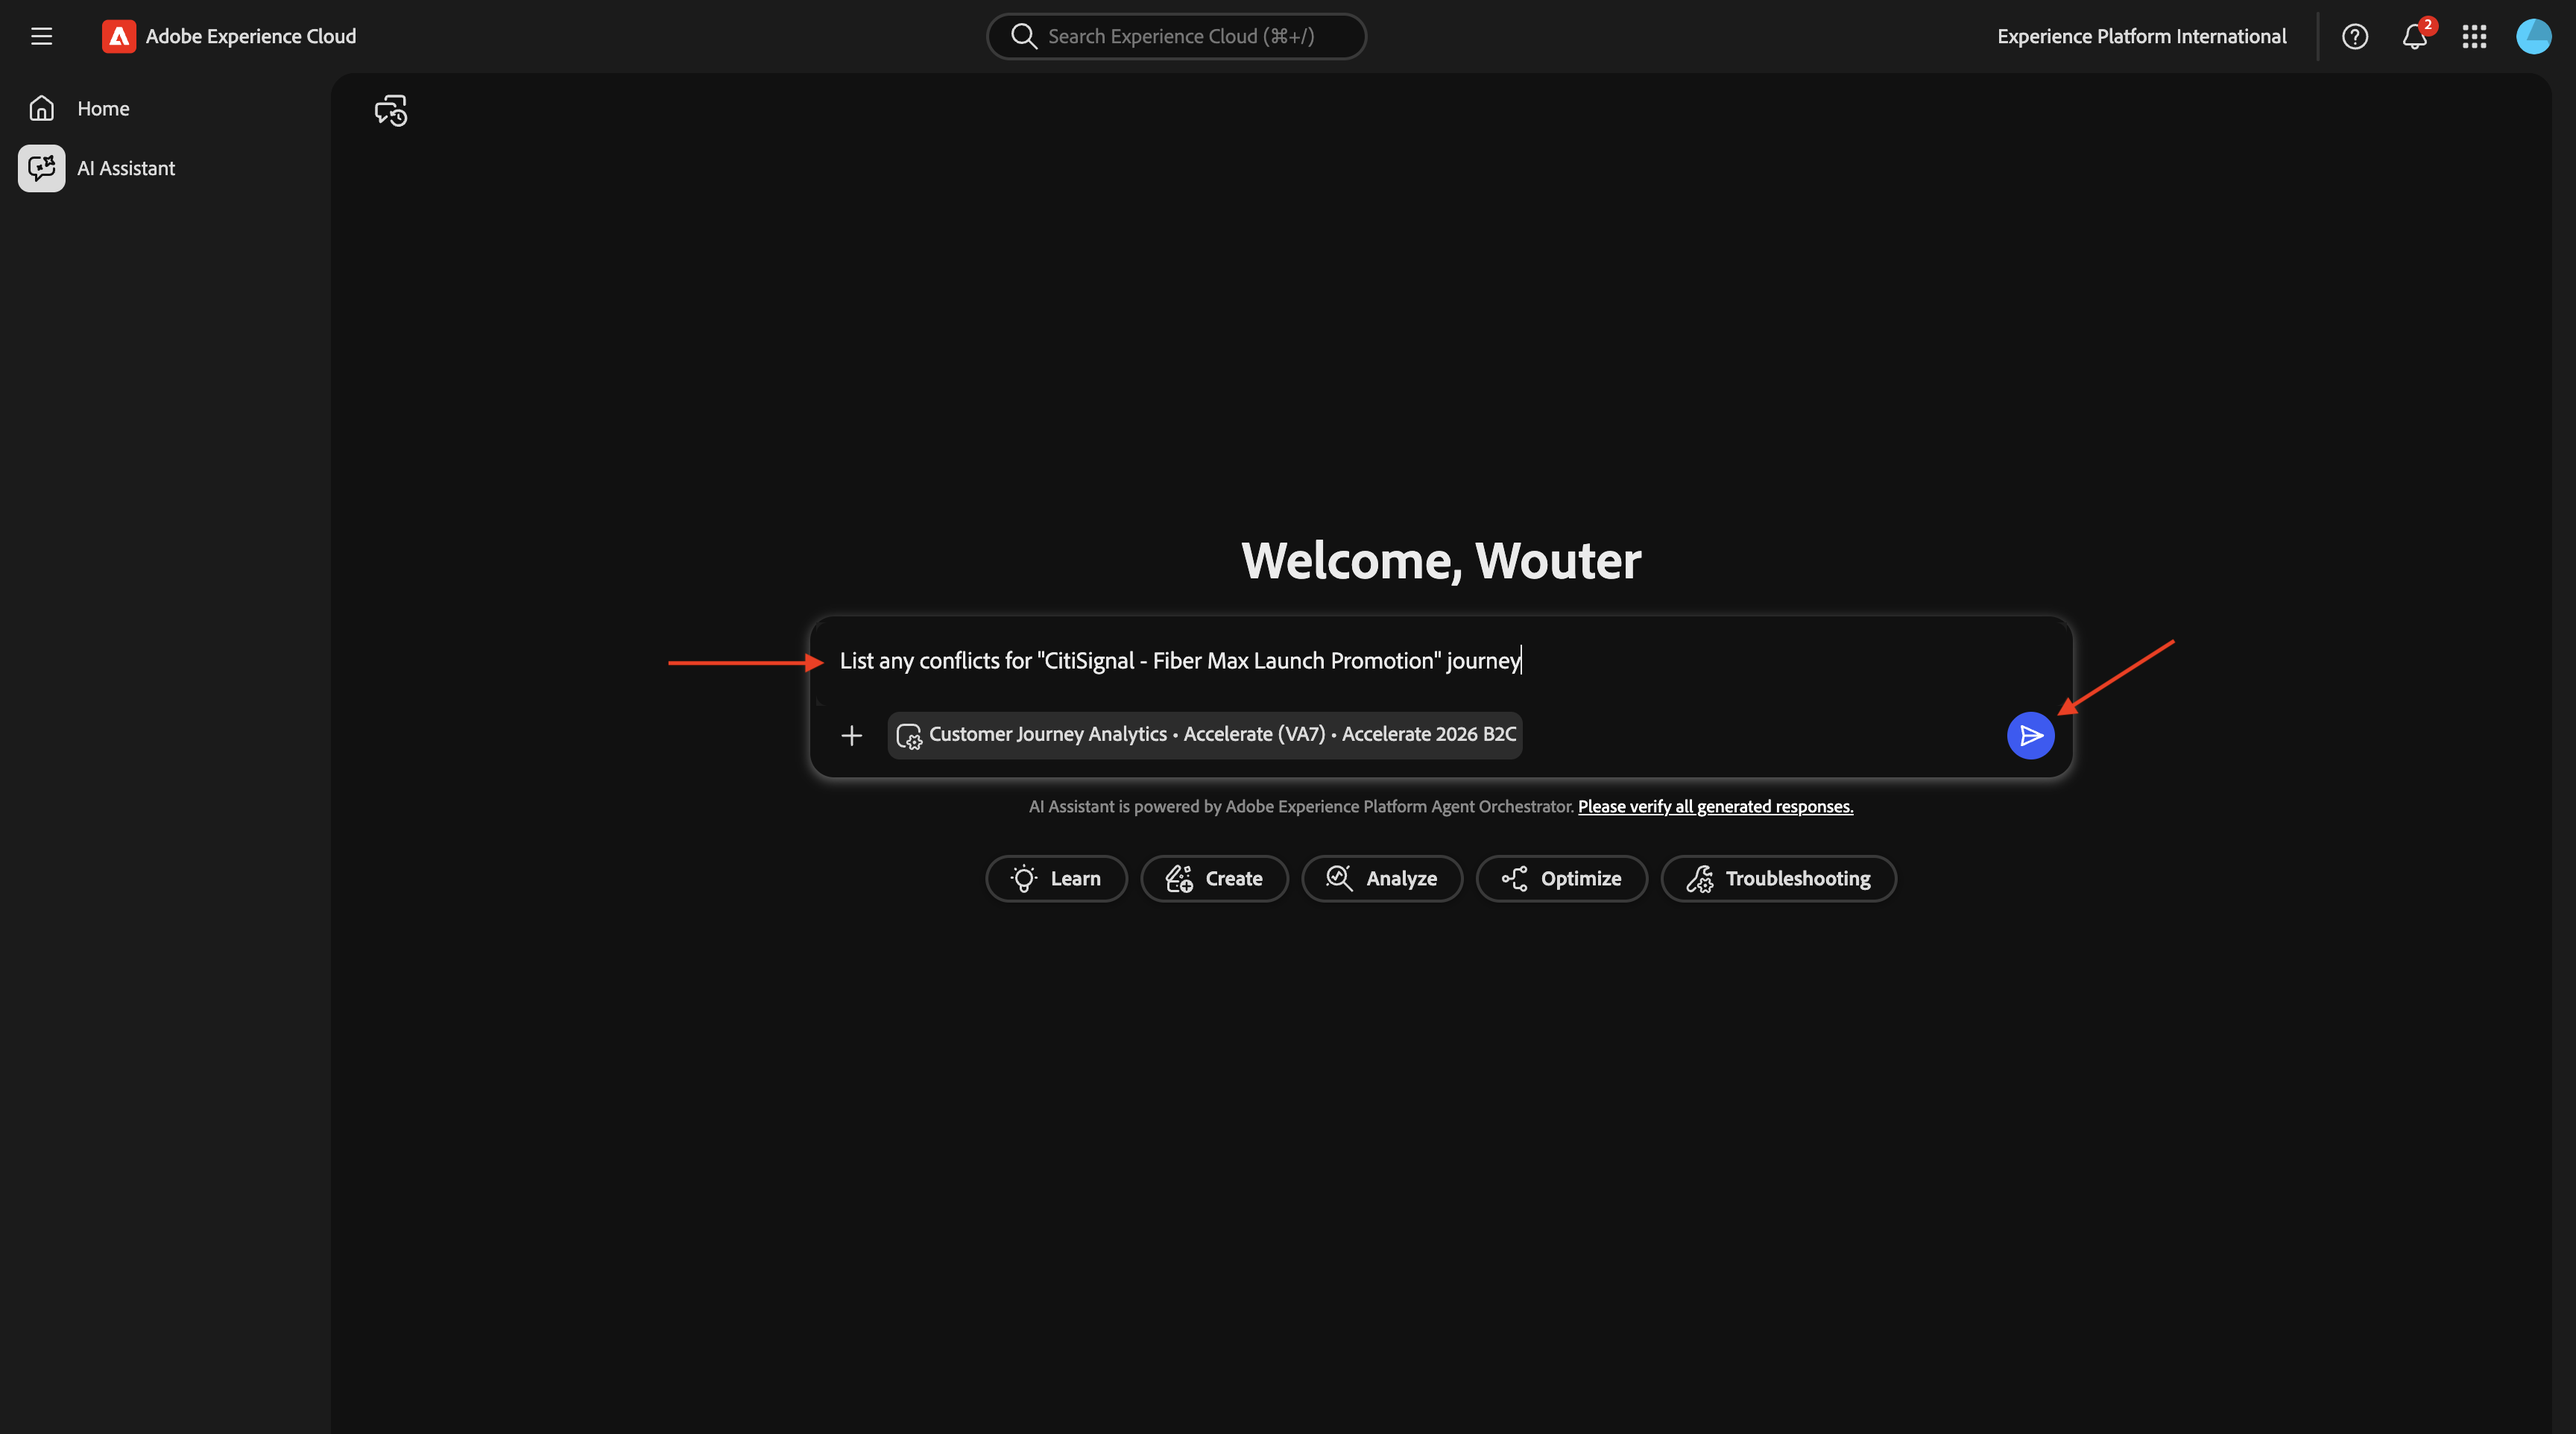
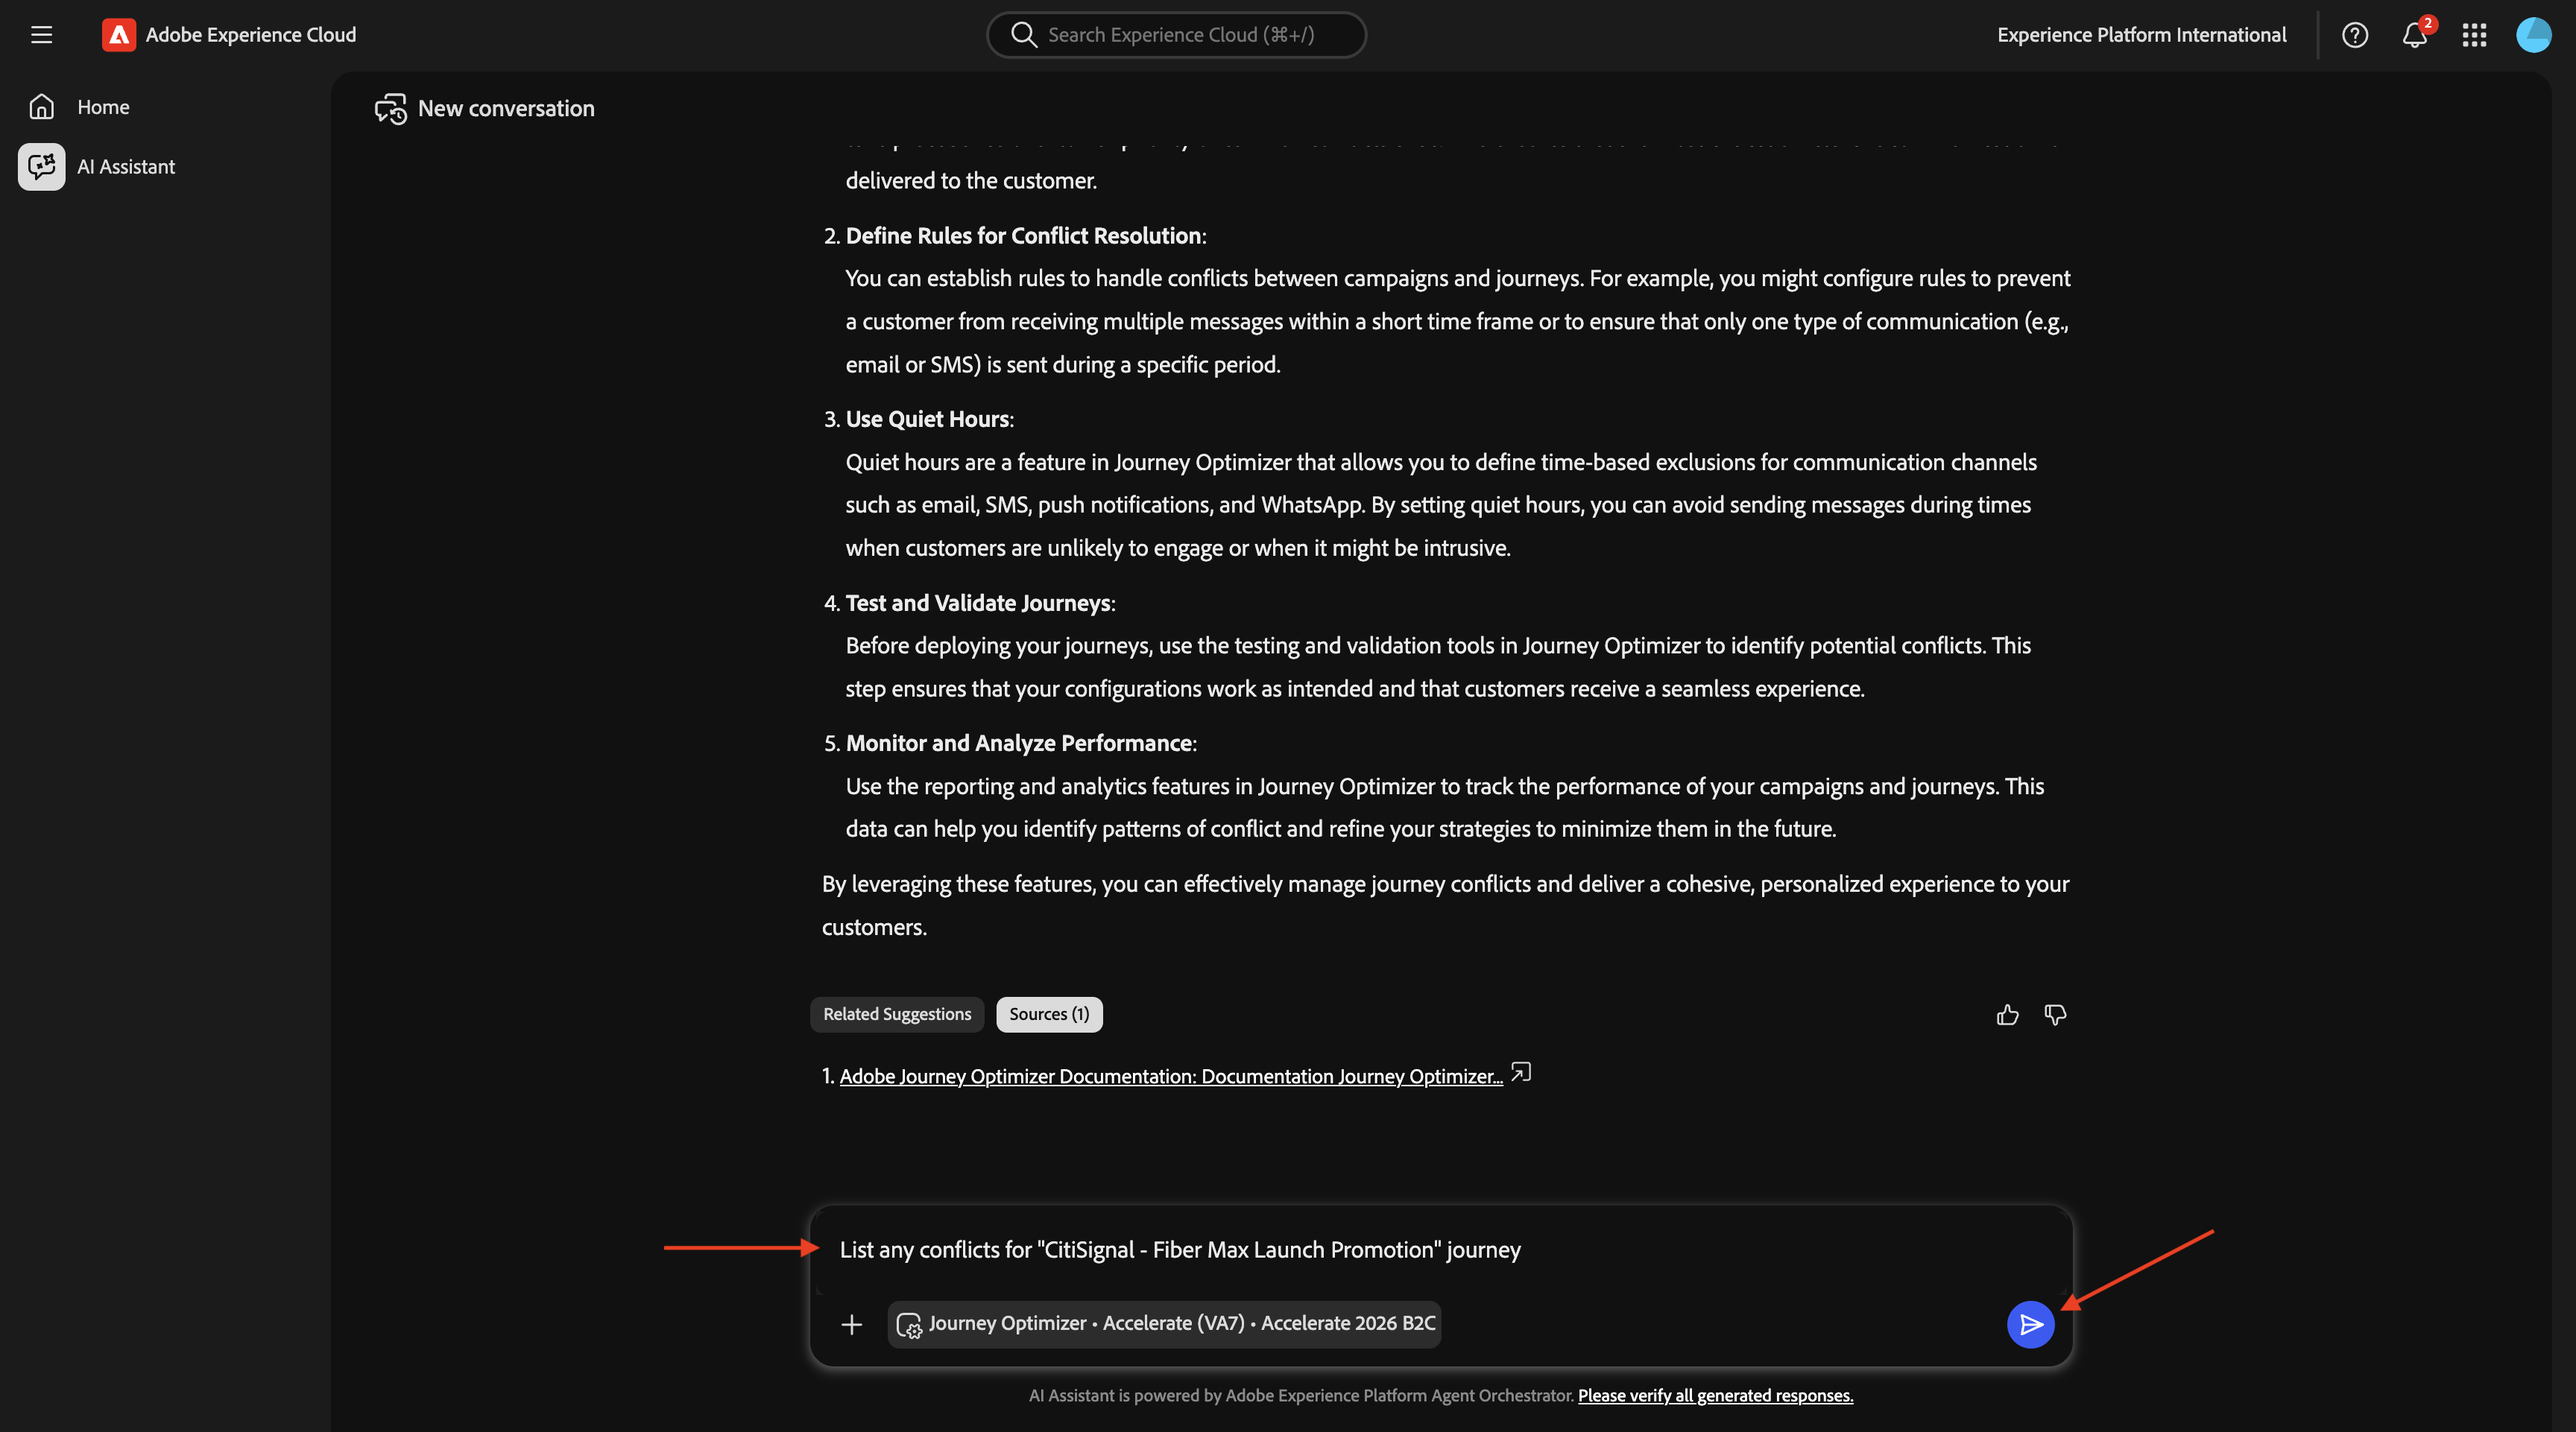
conflict mgmt

diff --git a/help/tutorial-one-adobe/modules/agents/module1.1/ex1.md b/help/tutorial-one-adobe/modules/agents/module1.1/ex1.md
@@ -322,7 +322,23 @@ Enter the following **Prompt** and click the **send** button.
 
 >[!NOTE]
 >
->Please verify that the context of the assistant is pointing to the sandbox **Accelerate** and the dataview **Accelerate 2026 B2C**
+>Please verify that the context of the assistant is pointing to the documentation source **Journey Optimizer**, the sandbox **Accelerate** and the dataview **Accelerate 2026 B2C**
+
+```javascript
+How can I manage journey conflicts?
+```
+
+![Agent Orchestrator](./images/aocj80.png)
+
+Review the information.
+
+![Agent Orchestrator](./images/aocj81.png)
+
+Scroll down and select the **Sources** to find that the information is sourced frm Experience League.
+
+![Agent Orchestrator](./images/aocj82.png)
+
+Enter the following **Prompt** and click the **send** button.
 
 ```javascript
 List any conflicts for "CitiSignal - Fiber Max Launch Promotion" journey
